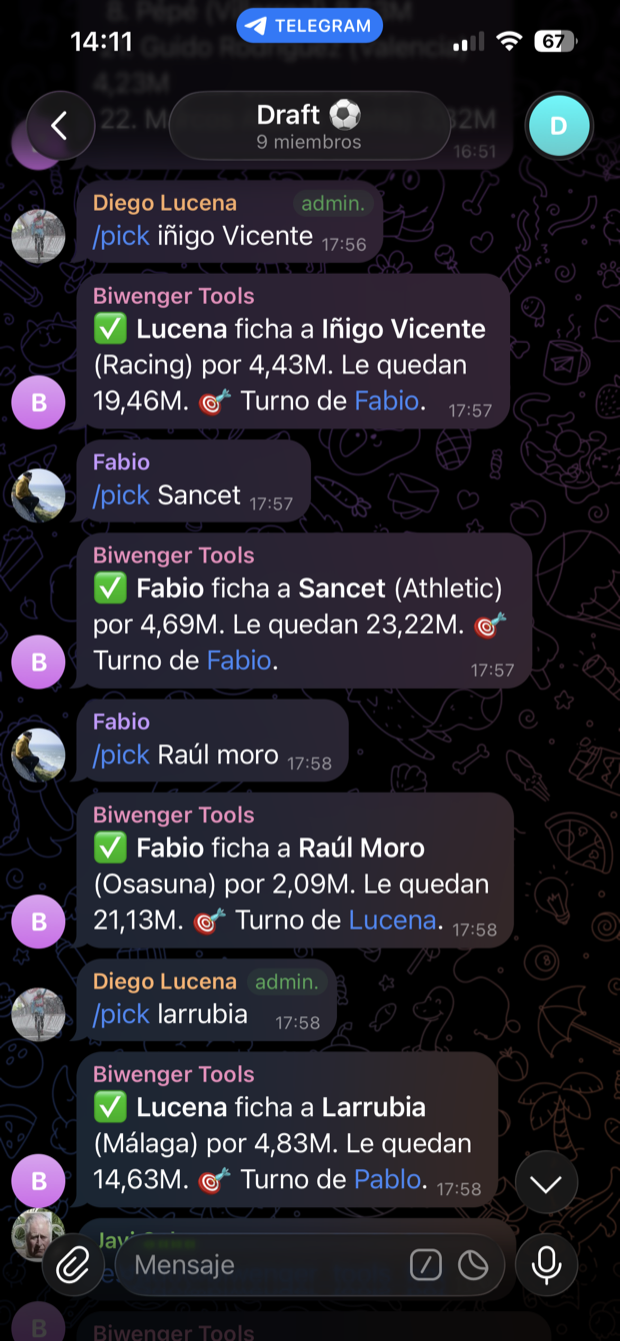
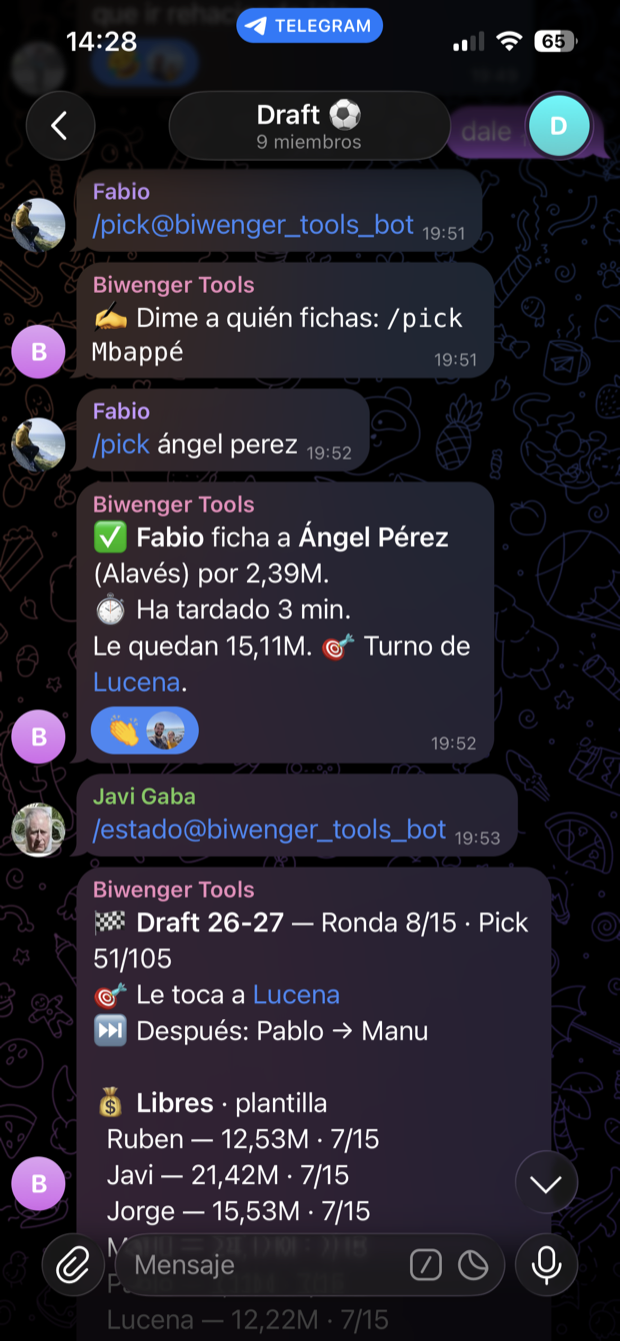
docs(biwenger_tools/bot): swap in a /pick shot that shows the turn timing
The previous capture predated the timings feature, so the headline detail was
missing. This one carries '⏱ Ha tardado 3 min.' and also shows /pick with no
argument prompting for the name. Closes the PENDING follow-up.

diff --git a/packages/biwenger_tools/bot/README.md b/packages/biwenger_tools/bot/README.md
@@ -14,7 +14,7 @@ Any other chat is silently dropped (returns `200` so Telegram does not retry).
 | `/pick` | `/estado` | `/exportar` |
 |---|---|---|
 | [![Pick](docs/01-draft-pick.png)](docs/01-draft-pick.png) | [![Estado](docs/02-draft-estado.png)](docs/02-draft-estado.png) | [![Exportar](docs/03-draft-exportar.png)](docs/03-draft-exportar.png) |
-| Valida el turno, aplica el fichaje en Biwenger y pasa el turno al siguiente. | Ronda, pick global, a quién le toca y el presupuesto y plantilla de los siete. | Vuelca las plantillas completas, presidente a presidente. |
+| Pide el nombre si falta, valida el turno, aplica el fichaje en Biwenger, cronometra lo que ha tardado y pasa turno. | Ronda, pick global, a quién le toca y el presupuesto y plantilla de los siete. | Vuelca las plantillas completas, presidente a presidente. |
 
 <sub>Capturas del draft 26-27 en vivo.</sub>
 

diff --git a/PENDING.md b/PENDING.md
@@ -60,8 +60,6 @@ Long-running follow-ups that don't yet warrant a plan or PR.
   --screenshot=...`) contra los datos reales de Firestore. Los dos bots de
   Telegram ya tienen la suya, aportada por el usuario desde una conversación
   real y reescalada a 620 px con `sips` — ahí no hay nada que automatizar.
-  Pendiente: rehacer la del `/pick` cuando haya una jornada con el tiempo de
-  turno visible, que la actual es anterior a esa función.
 
 ## biwenger_tools
 
